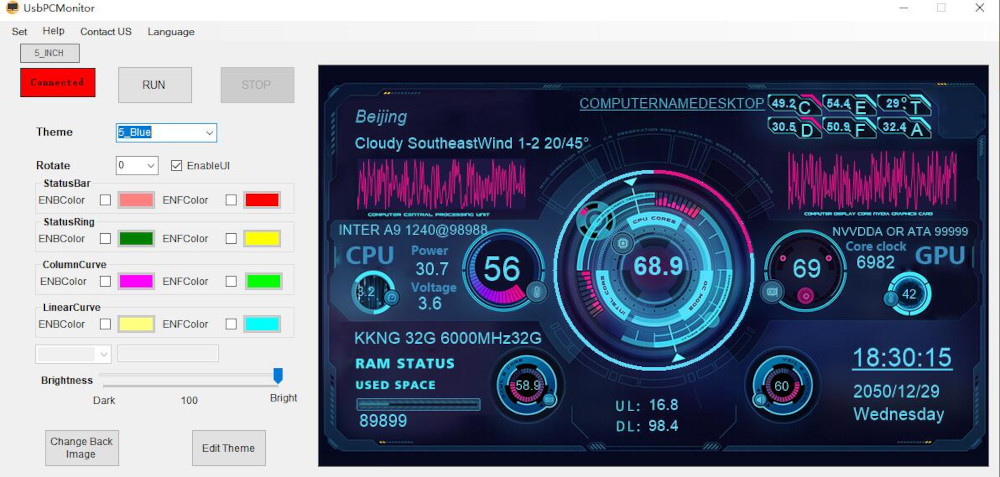
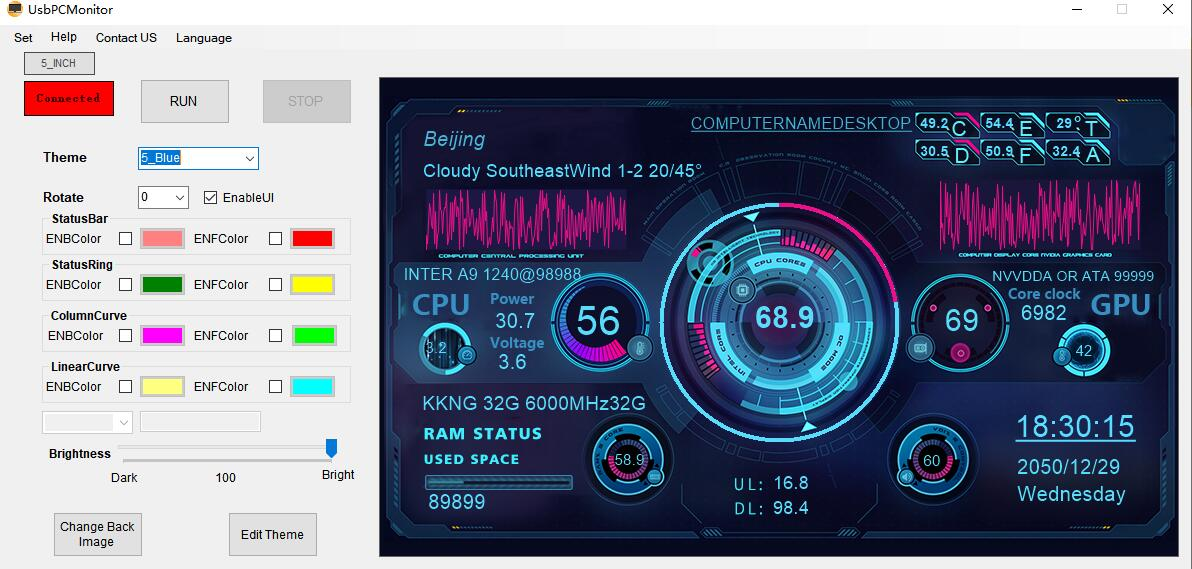
Update documentation for UsbPCMonitor displays

diff --git a/README.md b/README.md
@@ -23,10 +23,10 @@ Supported operating systems : macOS, Windows, Linux (incl. Raspberry Pi), basica
 | <img src="res/docs/turing.webp"/>                    | <img src="res/docs/xuanfang.webp"/>               | <img src="res/docs/turing5inch.png"/>       |
 | also improperly called "revision A" by the resellers | revision B & flagship (with backplate & RGB LEDs) | basic support (no video or storage for now) |
 
-| ✅ [UsbPCMonitor 3.5" / 5"](https://aliexpress.com/item/1005003931363455.html) |
-|-------------------------------------------------------------------------------|
-| <img src="res/docs/UsbPCMonitor.jpg" width="30%" height="30%"/>               |
-| Unknown manufacturer. Screen visually similar to Turing 3.5" / 5"             |
+| ✅ [UsbPCMonitor 3.5" / 5"](https://aliexpress.com/item/1005003931363455.html)                       |
+|-----------------------------------------------------------------------------------------------------|
+| <img src="res/docs/UsbPCMonitor_5inch.webp" width="30%" height="30%"/>                              |
+| Unknown manufacturer, visually similar to Turing 3.5" / 5". Original software is `UsbPCMonitor.exe` |
 
 ### [> What is my smart screen model?](https://github.com/mathoudebine/turing-smart-screen-python/wiki/Hardware-revisions)  
 
